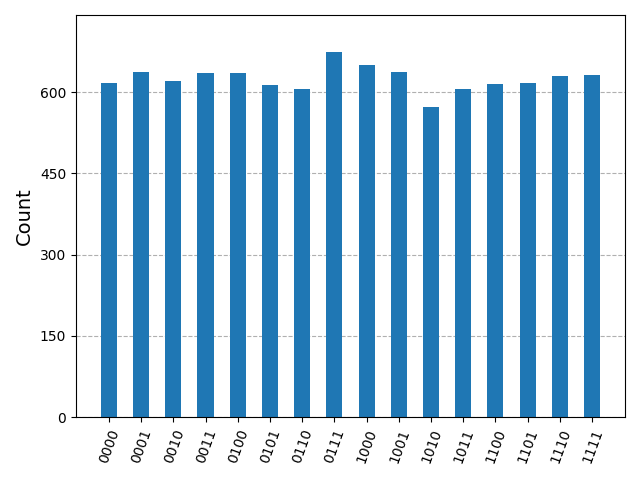
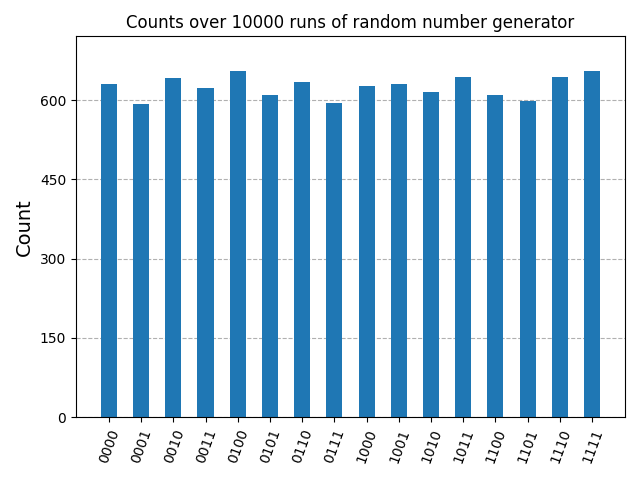
changes for readability

diff --git a/week1/Qualas_1.py b/week1/Qualas_1.py
@@ -18,5 +18,7 @@ backend = QasmSimulator()
 result = backend.run(qc.reverse_bits(), shots=10000).result()
 counts = result.get_counts()
 
-plot_histogram(counts,bar_labels=False)
+plot_histogram(counts,
+               bar_labels=False,
+               title="Counts over 10000 runs of random number generator")
 plt.show()
